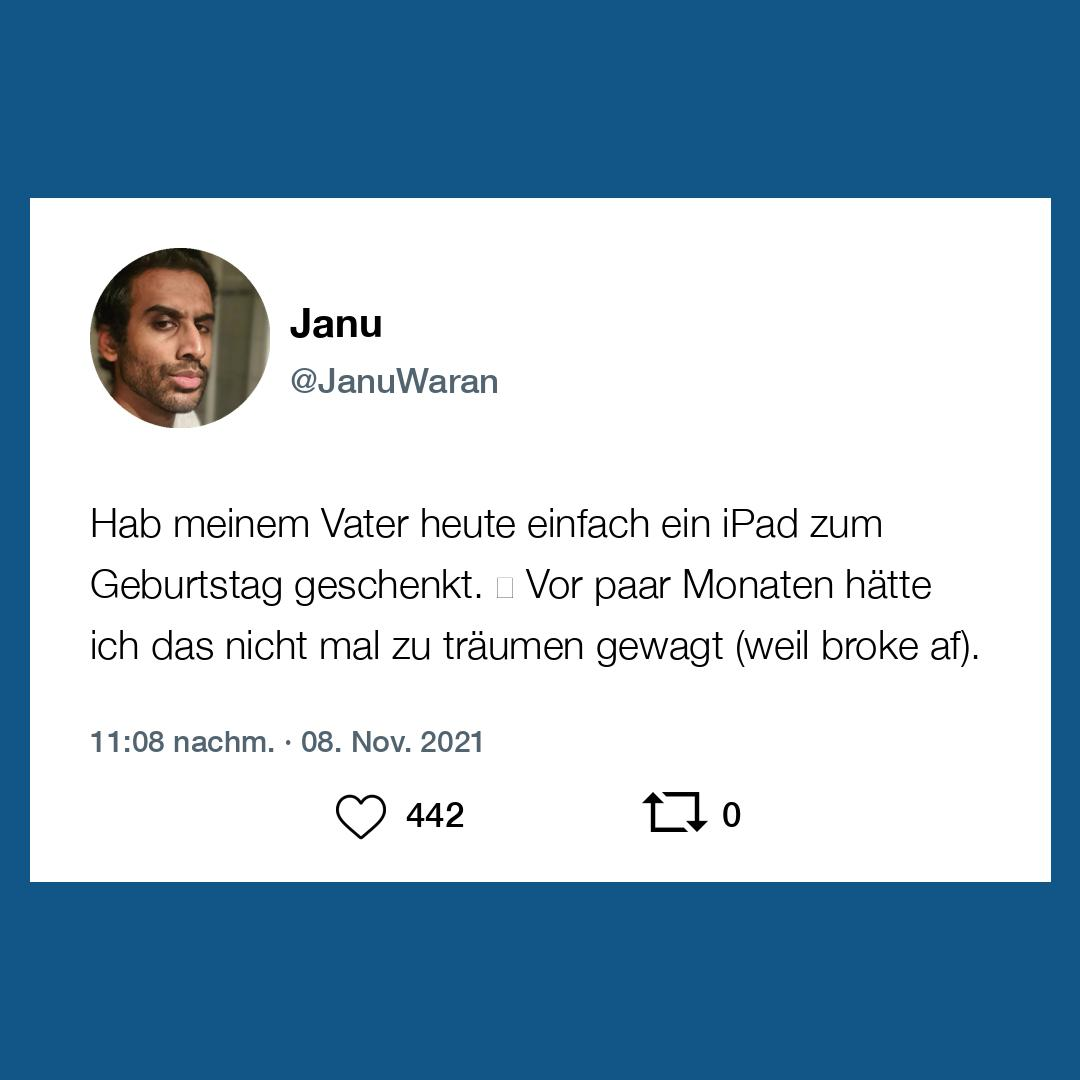
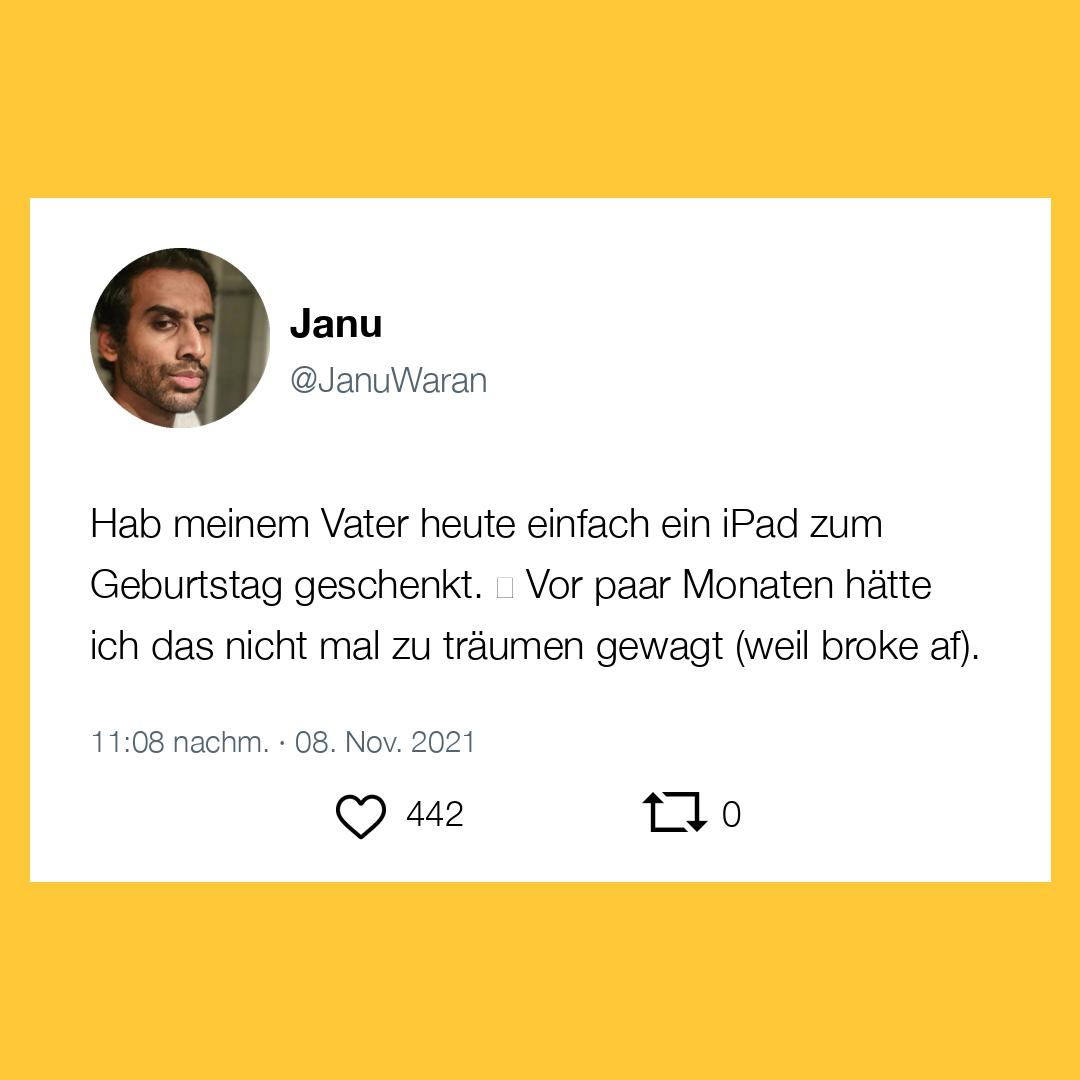
Heart/Like symbol thicker

diff --git a/main.py b/main.py
@@ -209,8 +209,8 @@ def tweet_to_image(name, username, showFavsRt, show_date, tweet, tweet_timestamp
     draw = ImageDraw.Draw(img)
     tw_font = ImageFont.truetype("fonts/HelveticaNeueLight.ttf", 40)
     name_font = ImageFont.truetype("fonts/HelveticaNeueBold.ttf", 40)
-    username_font = ImageFont.truetype("fonts/HelveticaNeueMedium.ttf", 35)
-    date_font = ImageFont.truetype("fonts/HelveticaNeueMedium.ttf", 30)
+    username_font = ImageFont.truetype("fonts/HelveticaNeueLight.ttf", 35)
+    date_font = ImageFont.truetype("fonts/HelveticaNeueLight.ttf", 30)
 
     tweet_size = get_text_dimensions(tweet, tw_font)
     tweet_w = (width-900) // 2
